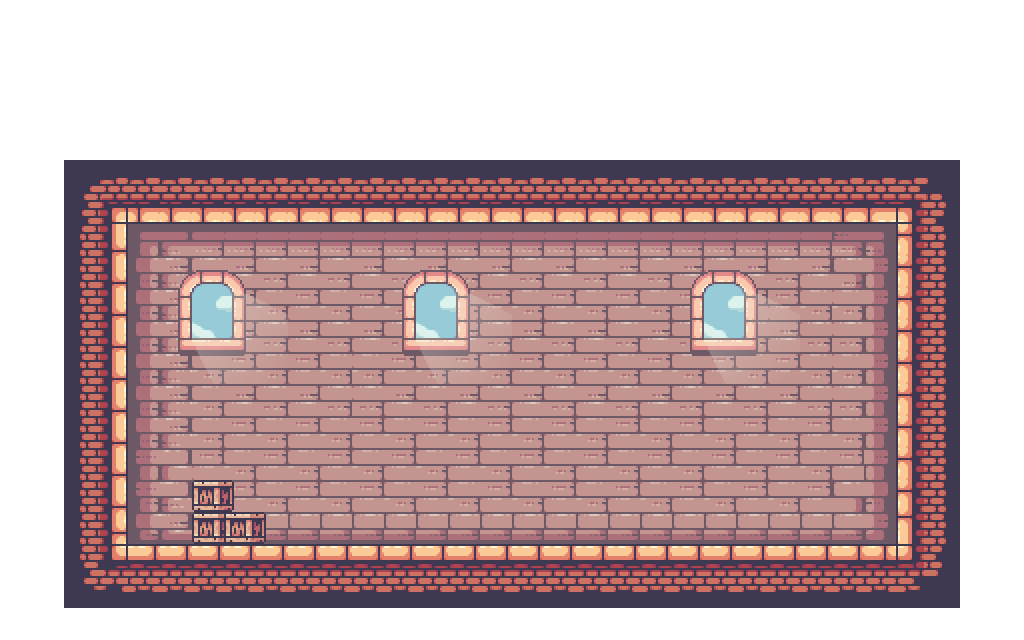
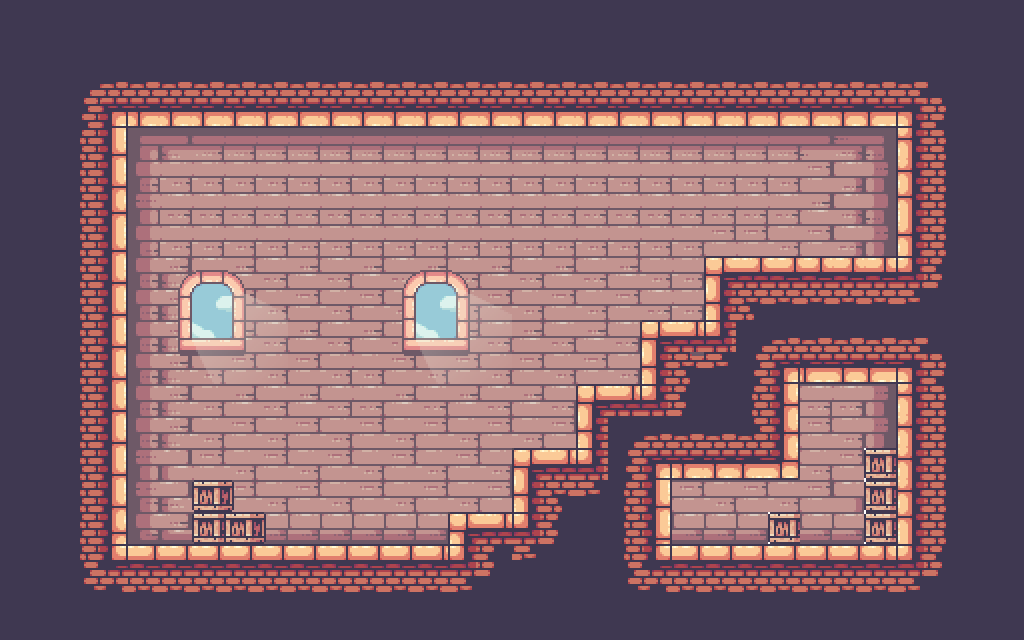
fixes

diff --git a/assets/Tiled/level1.js b/assets/Tiled/level1.js
@@ -13,26 +13,26 @@
  "infinite":false,
  "layers":[
         {
-         "data":[0, 0, 0, 0, 0, 0, 0, 0, 0, 0, 0, 0, 0, 0, 0, 0, 0, 0, 0, 0, 0, 0, 0, 0, 0, 0, 0, 0, 0, 0, 0, 0,
-            0, 0, 0, 0, 0, 0, 0, 0, 0, 0, 0, 0, 0, 0, 0, 0, 0, 0, 0, 0, 0, 0, 0, 0, 0, 0, 0, 0, 0, 0, 0, 0,
-            0, 0, 0, 0, 0, 0, 0, 0, 0, 0, 0, 0, 0, 0, 0, 0, 0, 0, 0, 0, 0, 0, 0, 0, 0, 0, 0, 0, 0, 0, 0, 0,
-            0, 0, 0, 0, 0, 0, 0, 0, 0, 0, 0, 0, 0, 0, 0, 0, 0, 0, 0, 0, 0, 0, 0, 0, 0, 0, 0, 0, 0, 0, 0, 0,
-            0, 0, 0, 0, 0, 0, 0, 0, 0, 0, 0, 0, 0, 0, 0, 0, 0, 0, 0, 0, 0, 0, 0, 0, 0, 0, 0, 0, 0, 0, 0, 0,
-            0, 0, 91, 92, 233, 233, 233, 233, 233, 233, 233, 233, 233, 233, 233, 233, 233, 233, 233, 233, 233, 233, 233, 233, 233, 233, 233, 234, 93, 94, 0, 0,
-            0, 0, 129, 130, 271, 271, 271, 271, 271, 271, 271, 271, 271, 271, 271, 271, 271, 271, 271, 271, 271, 271, 271, 271, 271, 271, 271, 272, 131, 132, 0, 0,
-            0, 0, 159, 160, 535, 536, 537, 537, 537, 537, 537, 537, 537, 537, 537, 537, 537, 537, 537, 537, 537, 537, 537, 537, 537, 537, 539, 540, 155, 156, 0, 0,
-            0, 0, 159, 160, 573, 574, 651, 652, 651, 652, 651, 652, 651, 652, 651, 652, 651, 652, 651, 652, 651, 652, 651, 652, 651, 652, 577, 578, 155, 156, 0, 0,
-            0, 0, 159, 160, 573, 574, 613, 614, 613, 614, 613, 614, 613, 614, 613, 614, 613, 614, 613, 614, 613, 614, 613, 614, 614, 613, 613, 578, 155, 156, 0, 0,
-            0, 0, 159, 160, 573, 574, 651, 652, 651, 652, 651, 652, 651, 652, 652, 651, 652, 651, 652, 651, 652, 651, 652, 651, 652, 651, 651, 578, 155, 156, 0, 0,
-            0, 0, 159, 160, 573, 574, 613, 614, 613, 614, 613, 613, 614, 613, 614, 613, 614, 613, 614, 613, 614, 613, 614, 613, 614, 613, 613, 578, 155, 156, 0, 0,
-            0, 0, 159, 160, 573, 574, 613, 652, 651, 652, 651, 651, 652, 651, 652, 651, 652, 651, 652, 651, 652, 651, 652, 651, 652, 651, 651, 578, 155, 156, 0, 0,
-            0, 0, 159, 160, 573, 574, 613, 614, 613, 614, 613, 614, 613, 614, 613, 614, 613, 614, 613, 614, 613, 614, 613, 614, 613, 614, 613, 578, 155, 156, 0, 0,
-            0, 0, 159, 160, 611, 612, 614, 613, 614, 613, 614, 613, 614, 613, 614, 613, 614, 613, 614, 613, 614, 613, 614, 613, 614, 613, 614, 578, 155, 156, 0, 0,
-            0, 0, 159, 160, 687, 688, 613, 614, 613, 614, 613, 614, 613, 614, 613, 614, 613, 614, 613, 614, 613, 614, 613, 614, 613, 614, 691, 692, 155, 156, 0, 0,
-            0, 0, 197, 198, 725, 726, 727, 728, 729, 729, 729, 729, 729, 729, 729, 729, 729, 729, 729, 729, 729, 729, 729, 729, 729, 729, 729, 730, 193, 194, 0, 0,
-            0, 0, 167, 168, 81, 81, 81, 81, 81, 81, 81, 81, 81, 81, 81, 81, 81, 81, 81, 81, 81, 81, 81, 81, 81, 81, 81, 82, 169, 170, 0, 0,
-            0, 0, 205, 206, 119, 119, 119, 119, 119, 119, 119, 119, 119, 119, 119, 119, 119, 119, 119, 119, 119, 119, 119, 119, 119, 119, 119, 120, 207, 208, 0, 0,
-            0, 0, 0, 0, 0, 0, 0, 0, 0, 0, 0, 0, 0, 0, 0, 0, 0, 0, 0, 0, 0, 0, 0, 0, 0, 0, 0, 0, 0, 0, 0, 0],
+         "data":[157, 158, 157, 158, 157, 158, 157, 158, 157, 158, 157, 158, 157, 158, 157, 158, 157, 158, 157, 158, 157, 158, 157, 158, 157, 158, 157, 158, 157, 158, 157, 158,
+            195, 196, 195, 196, 195, 196, 195, 196, 195, 196, 195, 196, 195, 196, 195, 196, 195, 196, 195, 196, 195, 196, 195, 196, 195, 196, 195, 196, 195, 196, 195, 196,
+            157, 158, 91, 92, 233, 233, 233, 233, 233, 233, 233, 233, 233, 233, 233, 233, 233, 233, 233, 233, 233, 233, 233, 233, 233, 233, 233, 234, 93, 94, 157, 158,
+            195, 196, 129, 130, 271, 271, 271, 271, 271, 271, 271, 271, 271, 271, 271, 271, 271, 271, 271, 271, 271, 271, 271, 271, 271, 271, 271, 272, 131, 132, 195, 196,
+            157, 158, 159, 160, 535, 536, 537, 537, 537, 537, 537, 537, 537, 537, 537, 537, 537, 537, 537, 537, 537, 537, 537, 537, 537, 538, 539, 540, 155, 156, 157, 158,
+            195, 196, 159, 160, 573, 613, 613, 613, 613, 613, 613, 613, 613, 613, 613, 613, 613, 613, 613, 613, 613, 613, 613, 613, 613, 614, 577, 578, 155, 156, 195, 196,
+            157, 158, 197, 198, 611, 651, 651, 651, 651, 651, 651, 651, 651, 651, 651, 651, 651, 651, 651, 651, 651, 651, 651, 651, 651, 652, 615, 616, 193, 194, 157, 158,
+            195, 196, 159, 160, 649, 613, 613, 613, 613, 613, 613, 613, 613, 613, 613, 613, 613, 613, 613, 613, 613, 613, 614, 614, 613, 614, 653, 654, 155, 156, 195, 196,
+            157, 158, 159, 160, 573, 574, 651, 652, 651, 652, 651, 652, 651, 652, 651, 652, 651, 652, 651, 652, 613, 613, 79, 80, 81, 82, 82, 82, 169, 170, 157, 158,
+            195, 196, 159, 160, 573, 574, 613, 614, 613, 614, 613, 614, 613, 614, 613, 614, 613, 614, 613, 614, 651, 613, 117, 118, 119, 120, 120, 120, 207, 208, 195, 196,
+            157, 158, 159, 160, 573, 574, 651, 652, 651, 652, 651, 652, 651, 652, 652, 651, 652, 651, 652, 651, 79, 80, 169, 91, 92, 234, 233, 234, 93, 94, 157, 158,
+            195, 196, 159, 160, 573, 574, 613, 614, 613, 614, 613, 613, 614, 613, 614, 613, 614, 613, 614, 613, 117, 118, 207, 129, 130, 272, 271, 272, 131, 132, 195, 196,
+            157, 158, 159, 160, 573, 574, 613, 652, 651, 652, 651, 651, 652, 651, 652, 651, 652, 651, 79, 80, 169, 170, 157, 197, 198, 651, 651, 578, 155, 156, 157, 158,
+            195, 196, 159, 160, 573, 574, 613, 614, 613, 614, 613, 614, 613, 614, 613, 614, 613, 614, 117, 91, 92, 233, 233, 235, 236, 614, 613, 578, 155, 156, 195, 196,
+            157, 158, 159, 160, 611, 612, 614, 613, 614, 613, 614, 613, 614, 613, 614, 613, 79, 80, 169, 129, 130, 271, 271, 273, 274, 613, 614, 1157, 155, 156, 157, 158,
+            195, 196, 159, 160, 687, 688, 613, 614, 613, 614, 613, 614, 613, 614, 613, 614, 117, 118, 207, 159, 160, 614, 613, 614, 613, 614, 691, 1157, 155, 156, 195, 196,
+            157, 158, 197, 198, 725, 726, 727, 728, 729, 729, 729, 729, 729, 729, 79, 80, 169, 170, 157, 159, 160, 729, 729, 729, 1157, 729, 729, 1157, 193, 194, 157, 158,
+            195, 196, 167, 168, 81, 81, 81, 81, 81, 81, 81, 81, 81, 81, 169, 170, 207, 208, 157, 167, 168, 81, 81, 81, 81, 81, 81, 82, 169, 170, 195, 196,
+            157, 158, 205, 206, 119, 119, 119, 119, 119, 119, 119, 119, 119, 119, 207, 208, 157, 157, 157, 205, 206, 119, 119, 119, 119, 119, 119, 120, 207, 208, 157, 158,
+            195, 196, 195, 196, 195, 196, 195, 196, 195, 196, 195, 196, 195, 196, 195, 196, 195, 196, 195, 196, 195, 196, 195, 196, 195, 196, 195, 196, 195, 196, 195, 196],
          "height":20,
          "id":1,
          "name":"Terrain",
@@ -52,10 +52,10 @@
             0, 0, 0, 0, 0, 0, 0, 0, 0, 0, 0, 0, 0, 0, 0, 0, 0, 0, 0, 0, 0, 0, 0, 0, 0, 0, 0, 0, 0, 0, 0, 0,
             0, 0, 0, 0, 0, 0, 0, 0, 0, 0, 0, 0, 0, 0, 0, 0, 0, 0, 0, 0, 0, 0, 0, 0, 0, 0, 0, 0, 0, 0, 0, 0,
             0, 0, 0, 0, 0, 0, 0, 0, 0, 0, 0, 0, 0, 0, 0, 0, 0, 0, 0, 0, 0, 0, 0, 0, 0, 0, 0, 0, 0, 0, 0, 0,
-            0, 0, 0, 0, 0, 1077, 1078, 1079, 1080, 0, 0, 0, 1077, 1078, 1079, 1080, 0, 0, 0, 0, 0, 1077, 1078, 1079, 1080, 0, 0, 0, 0, 0, 0, 0,
-            0, 0, 0, 0, 0, 1091, 1092, 1093, 1094, 0, 0, 0, 1091, 1092, 1093, 1094, 0, 0, 0, 0, 0, 1091, 1092, 1093, 1094, 0, 0, 0, 0, 0, 0, 0,
-            0, 0, 0, 0, 0, 1105, 1106, 1107, 1108, 0, 0, 0, 1105, 1106, 1107, 1108, 0, 0, 0, 0, 0, 1105, 1106, 1107, 1108, 0, 0, 0, 0, 0, 0, 0,
-            0, 0, 0, 0, 0, 1119, 1120, 1121, 1122, 0, 0, 0, 1119, 1120, 1121, 1122, 0, 0, 0, 0, 0, 1119, 1120, 1121, 1122, 0, 0, 0, 0, 0, 0, 0,
+            0, 0, 0, 0, 0, 1077, 1078, 1079, 1080, 0, 0, 0, 1077, 1078, 1079, 1080, 0, 0, 0, 0, 0, 0, 0, 0, 1080, 0, 0, 0, 0, 0, 0, 0,
+            0, 0, 0, 0, 0, 1091, 1092, 1093, 1094, 0, 0, 0, 1091, 1092, 1093, 1094, 0, 0, 0, 0, 0, 0, 0, 0, 0, 0, 0, 0, 0, 0, 0, 0,
+            0, 0, 0, 0, 0, 1105, 1106, 1107, 1108, 0, 0, 0, 1105, 1106, 1107, 1108, 0, 0, 0, 0, 0, 0, 0, 0, 0, 0, 0, 0, 0, 0, 0, 0,
+            0, 0, 0, 0, 0, 1119, 1120, 1121, 1122, 0, 0, 0, 1119, 1120, 1121, 1122, 0, 0, 0, 0, 0, 1119, 0, 0, 0, 0, 0, 0, 0, 0, 0, 0,
             0, 0, 0, 0, 0, 0, 0, 0, 0, 0, 0, 0, 0, 0, 0, 0, 0, 0, 0, 0, 0, 0, 0, 0, 0, 0, 0, 0, 0, 0, 0, 0,
             0, 0, 0, 0, 0, 0, 0, 0, 0, 0, 0, 0, 0, 0, 0, 0, 0, 0, 0, 0, 0, 0, 0, 0, 0, 0, 0, 0, 0, 0, 0, 0,
             0, 0, 0, 0, 0, 0, 0, 0, 0, 0, 0, 0, 0, 0, 0, 0, 0, 0, 0, 0, 0, 0, 0, 0, 0, 0, 0, 0, 0, 0, 0, 0,
@@ -109,21 +109,21 @@
          "data":[0, 0, 0, 0, 0, 0, 0, 0, 0, 0, 0, 0, 0, 0, 0, 0, 0, 0, 0, 0, 0, 0, 0, 0, 0, 0, 0, 0, 0, 0, 0, 0,
             0, 0, 0, 0, 0, 0, 0, 0, 0, 0, 0, 0, 0, 0, 0, 0, 0, 0, 0, 0, 0, 0, 0, 0, 0, 0, 0, 0, 0, 0, 0, 0,
             0, 0, 0, 0, 0, 0, 0, 0, 0, 0, 0, 0, 0, 0, 0, 0, 0, 0, 0, 0, 0, 0, 0, 0, 0, 0, 0, 0, 0, 0, 0, 0,
-            0, 0, 0, 0, 0, 0, 0, 0, 0, 0, 0, 0, 0, 0, 0, 0, 0, 0, 0, 0, 0, 0, 0, 0, 0, 0, 0, 0, 0, 0, 0, 0,
-            0, 0, 0, 0, 0, 0, 0, 0, 0, 0, 0, 0, 0, 0, 0, 0, 0, 0, 0, 0, 0, 0, 0, 0, 0, 0, 0, 0, 0, 0, 0, 0,
-            0, 0, 0, 0, 0, 0, 0, 0, 0, 0, 0, 0, 0, 0, 0, 0, 0, 0, 0, 0, 0, 0, 0, 0, 0, 0, 0, 0, 0, 0, 0, 0,
             0, 0, 0, 1159, 1159, 1159, 1159, 1159, 1159, 1159, 1159, 1159, 1159, 1159, 1159, 1159, 1159, 1159, 1159, 1159, 1159, 1159, 1159, 1159, 1159, 1159, 1159, 1159, 1159, 0, 0, 0,
             0, 0, 0, 1159, 0, 0, 0, 0, 0, 0, 0, 0, 0, 0, 0, 0, 0, 0, 0, 0, 0, 0, 0, 0, 0, 0, 0, 0, 1159, 0, 0, 0,
             0, 0, 0, 1159, 0, 0, 0, 0, 0, 0, 0, 0, 0, 0, 0, 0, 0, 0, 0, 0, 0, 0, 0, 0, 0, 0, 0, 0, 1159, 0, 0, 0,
             0, 0, 0, 1159, 0, 0, 0, 0, 0, 0, 0, 0, 0, 0, 0, 0, 0, 0, 0, 0, 0, 0, 0, 0, 0, 0, 0, 0, 1159, 0, 0, 0,
             0, 0, 0, 1159, 0, 0, 0, 0, 0, 0, 0, 0, 0, 0, 0, 0, 0, 0, 0, 0, 0, 0, 0, 0, 0, 0, 0, 0, 1159, 0, 0, 0,
-            0, 0, 0, 1159, 0, 0, 0, 0, 0, 0, 0, 0, 0, 0, 0, 0, 0, 0, 0, 0, 0, 0, 0, 0, 0, 0, 0, 0, 1159, 0, 0, 0,
-            0, 0, 0, 1159, 0, 0, 0, 0, 0, 0, 0, 0, 0, 0, 0, 0, 0, 0, 0, 0, 0, 0, 0, 0, 0, 0, 0, 0, 1159, 0, 0, 0,
-            0, 0, 0, 1159, 0, 0, 0, 0, 0, 0, 0, 0, 0, 0, 0, 0, 0, 0, 0, 0, 0, 0, 0, 0, 0, 0, 0, 0, 1159, 0, 0, 0,
-            0, 0, 0, 1159, 0, 0, 0, 0, 0, 0, 0, 0, 0, 0, 0, 0, 0, 0, 0, 0, 0, 0, 0, 0, 0, 0, 0, 0, 1159, 0, 0, 0,
-            0, 0, 0, 1159, 0, 0, 1159, 0, 0, 0, 0, 0, 0, 0, 0, 0, 0, 0, 0, 0, 0, 0, 0, 0, 0, 0, 0, 0, 1159, 0, 0, 0,
-            0, 0, 0, 1159, 0, 0, 1159, 1159, 0, 0, 0, 0, 0, 0, 0, 0, 0, 0, 0, 0, 0, 0, 0, 0, 0, 0, 0, 0, 1159, 0, 0, 0,
-            0, 0, 0, 1159, 1159, 1159, 1159, 1159, 1159, 1159, 1159, 1159, 1159, 1159, 1159, 1159, 1159, 1159, 1159, 1159, 1159, 1159, 1159, 1159, 1159, 1159, 1159, 1159, 1159, 0, 0, 0,
+            0, 0, 0, 1159, 0, 0, 0, 0, 0, 0, 0, 0, 0, 0, 0, 0, 0, 0, 0, 0, 0, 0, 1159, 1159, 1159, 1159, 1159, 1159, 1159, 0, 0, 0,
+            0, 0, 0, 1159, 0, 0, 0, 0, 0, 0, 0, 0, 0, 0, 0, 0, 0, 0, 0, 0, 0, 0, 1159, 0, 0, 0, 0, 0, 0, 0, 0, 0,
+            0, 0, 0, 1159, 0, 0, 0, 0, 0, 0, 0, 0, 0, 0, 0, 0, 0, 0, 0, 0, 1159, 1159, 1159, 0, 0, 0, 0, 0, 0, 0, 0, 0,
+            0, 0, 0, 1159, 0, 0, 0, 0, 0, 0, 0, 0, 0, 0, 0, 0, 0, 0, 0, 0, 1159, 0, 0, 0, 0, 0, 0, 0, 0, 0, 0, 0,
+            0, 0, 0, 1159, 0, 0, 0, 0, 0, 0, 0, 0, 0, 0, 0, 0, 0, 0, 1159, 1159, 1159, 0, 0, 0, 0, 0, 0, 0, 0, 0, 0, 0,
+            0, 0, 0, 1159, 0, 0, 0, 0, 0, 0, 0, 0, 0, 0, 0, 0, 0, 0, 1159, 0, 0, 0, 0, 0, 0, 0, 0, 0, 0, 0, 0, 0,
+            0, 0, 0, 1159, 0, 0, 0, 0, 0, 0, 0, 0, 0, 0, 0, 0, 1159, 1159, 1159, 0, 0, 0, 0, 0, 0, 0, 0, 0, 0, 0, 0, 0,
+            0, 0, 0, 1159, 0, 0, 1159, 0, 0, 0, 0, 0, 0, 0, 0, 0, 1159, 0, 0, 0, 0, 0, 0, 0, 0, 0, 0, 0, 0, 0, 0, 0,
+            0, 0, 0, 1159, 0, 0, 1159, 1159, 0, 0, 0, 0, 0, 0, 1159, 1159, 1159, 0, 0, 0, 0, 0, 0, 0, 0, 0, 0, 0, 0, 0, 0, 0,
+            0, 0, 0, 1159, 1159, 1159, 1159, 1159, 1159, 1159, 1159, 1159, 1159, 1159, 1159, 0, 0, 0, 0, 0, 0, 0, 0, 0, 0, 0, 0, 0, 0, 0, 0, 0,
             0, 0, 0, 0, 0, 0, 0, 0, 0, 0, 0, 0, 0, 0, 0, 0, 0, 0, 0, 0, 0, 0, 0, 0, 0, 0, 0, 0, 0, 0, 0, 0,
             0, 0, 0, 0, 0, 0, 0, 0, 0, 0, 0, 0, 0, 0, 0, 0, 0, 0, 0, 0, 0, 0, 0, 0, 0, 0, 0, 0, 0, 0, 0, 0],
          "height":20,
@@ -131,7 +131,7 @@
          "name":"Collision",
          "opacity":0.5,
          "type":"tilelayer",
-         "visible":false,
+         "visible":true,
          "width":32,
          "x":0,
          "y":0

diff --git a/maps.js b/maps.js
@@ -3,21 +3,21 @@ const maps = {
     0, 0, 0, 0, 0, 0, 0, 0, 0, 0, 0, 0, 0, 0, 0, 0, 0, 0, 0, 0, 0, 0, 0, 0, 0, 0, 0, 0, 0, 0, 0, 0,
     0, 0, 0, 0, 0, 0, 0, 0, 0, 0, 0, 0, 0, 0, 0, 0, 0, 0, 0, 0, 0, 0, 0, 0, 0, 0, 0, 0, 0, 0, 0, 0,
     0, 0, 0, 0, 0, 0, 0, 0, 0, 0, 0, 0, 0, 0, 0, 0, 0, 0, 0, 0, 0, 0, 0, 0, 0, 0, 0, 0, 0, 0, 0, 0,
-    0, 0, 0, 0, 0, 0, 0, 0, 0, 0, 0, 0, 0, 0, 0, 0, 0, 0, 0, 0, 0, 0, 0, 0, 0, 0, 0, 0, 0, 0, 0, 0,
-    0, 0, 0, 0, 0, 0, 0, 0, 0, 0, 0, 0, 0, 0, 0, 0, 0, 0, 0, 0, 0, 0, 0, 0, 0, 0, 0, 0, 0, 0, 0, 0,
-    0, 0, 0, 0, 0, 0, 0, 0, 0, 0, 0, 0, 0, 0, 0, 0, 0, 0, 0, 0, 0, 0, 0, 0, 0, 0, 0, 0, 0, 0, 0, 0,
     0, 0, 0, 1159, 1159, 1159, 1159, 1159, 1159, 1159, 1159, 1159, 1159, 1159, 1159, 1159, 1159, 1159, 1159, 1159, 1159, 1159, 1159, 1159, 1159, 1159, 1159, 1159, 1159, 0, 0, 0,
     0, 0, 0, 1159, 0, 0, 0, 0, 0, 0, 0, 0, 0, 0, 0, 0, 0, 0, 0, 0, 0, 0, 0, 0, 0, 0, 0, 0, 1159, 0, 0, 0,
     0, 0, 0, 1159, 0, 0, 0, 0, 0, 0, 0, 0, 0, 0, 0, 0, 0, 0, 0, 0, 0, 0, 0, 0, 0, 0, 0, 0, 1159, 0, 0, 0,
     0, 0, 0, 1159, 0, 0, 0, 0, 0, 0, 0, 0, 0, 0, 0, 0, 0, 0, 0, 0, 0, 0, 0, 0, 0, 0, 0, 0, 1159, 0, 0, 0,
     0, 0, 0, 1159, 0, 0, 0, 0, 0, 0, 0, 0, 0, 0, 0, 0, 0, 0, 0, 0, 0, 0, 0, 0, 0, 0, 0, 0, 1159, 0, 0, 0,
-    0, 0, 0, 1159, 0, 0, 0, 0, 0, 0, 0, 0, 0, 0, 0, 0, 0, 0, 0, 0, 0, 0, 0, 0, 0, 0, 0, 0, 1159, 0, 0, 0,
-    0, 0, 0, 1159, 0, 0, 0, 0, 0, 0, 0, 0, 0, 0, 0, 0, 0, 0, 0, 0, 0, 0, 0, 0, 0, 0, 0, 0, 1159, 0, 0, 0,
-    0, 0, 0, 1159, 0, 0, 0, 0, 0, 0, 0, 0, 0, 0, 0, 0, 0, 0, 0, 0, 0, 0, 0, 0, 0, 0, 0, 0, 1159, 0, 0, 0,
-    0, 0, 0, 1159, 0, 0, 0, 0, 0, 0, 0, 0, 0, 0, 0, 0, 0, 0, 0, 0, 0, 0, 0, 0, 0, 0, 0, 0, 1159, 0, 0, 0,
-    0, 0, 0, 1159, 0, 0, 1159, 0, 0, 0, 0, 0, 0, 0, 0, 0, 0, 0, 0, 0, 0, 0, 0, 0, 0, 0, 0, 0, 1159, 0, 0, 0,
-    0, 0, 0, 1159, 0, 0, 1159, 1159, 0, 0, 0, 0, 0, 0, 0, 0, 0, 0, 0, 0, 0, 0, 0, 0, 0, 0, 0, 0, 1159, 0, 0, 0,
-    0, 0, 0, 1159, 1159, 1159, 1159, 1159, 1159, 1159, 1159, 1159, 1159, 1159, 1159, 1159, 1159, 1159, 1159, 1159, 1159, 1159, 1159, 1159, 1159, 1159, 1159, 1159, 1159, 0, 0, 0,
+    0, 0, 0, 1159, 0, 0, 0, 0, 0, 0, 0, 0, 0, 0, 0, 0, 0, 0, 0, 0, 0, 0, 1159, 1159, 1159, 1159, 1159, 1159, 1159, 0, 0, 0,
+    0, 0, 0, 1159, 0, 0, 0, 0, 0, 0, 0, 0, 0, 0, 0, 0, 0, 0, 0, 0, 0, 0, 1159, 0, 0, 0, 0, 0, 0, 0, 0, 0,
+    0, 0, 0, 1159, 0, 0, 0, 0, 0, 0, 0, 0, 0, 0, 0, 0, 0, 0, 0, 0, 1159, 1159, 1159, 0, 0, 0, 0, 0, 0, 0, 0, 0,
+    0, 0, 0, 1159, 0, 0, 0, 0, 0, 0, 0, 0, 0, 0, 0, 0, 0, 0, 0, 0, 1159, 0, 0, 0, 0, 0, 0, 0, 0, 0, 0, 0,
+    0, 0, 0, 1159, 0, 0, 0, 0, 0, 0, 0, 0, 0, 0, 0, 0, 0, 0, 1159, 1159, 1159, 0, 0, 0, 0, 0, 0, 0, 0, 0, 0, 0,
+    0, 0, 0, 1159, 0, 0, 0, 0, 0, 0, 0, 0, 0, 0, 0, 0, 0, 0, 1159, 0, 0, 0, 0, 0, 0, 0, 0, 0, 0, 0, 0, 0,
+    0, 0, 0, 1159, 0, 0, 0, 0, 0, 0, 0, 0, 0, 0, 0, 0, 1159, 1159, 1159, 0, 0, 0, 0, 0, 0, 0, 0, 0, 0, 0, 0, 0,
+    0, 0, 0, 1159, 0, 0, 1159, 0, 0, 0, 0, 0, 0, 0, 0, 0, 1159, 0, 0, 0, 0, 0, 0, 0, 0, 0, 0, 0, 0, 0, 0, 0,
+    0, 0, 0, 1159, 0, 0, 1159, 1159, 0, 0, 0, 0, 0, 0, 1159, 1159, 1159, 0, 0, 0, 0, 0, 0, 0, 0, 0, 0, 0, 0, 0, 0, 0,
+    0, 0, 0, 1159, 1159, 1159, 1159, 1159, 1159, 1159, 1159, 1159, 1159, 1159, 1159, 0, 0, 0, 0, 0, 0, 0, 0, 0, 0, 0, 0, 0, 0, 0, 0, 0,
     0, 0, 0, 0, 0, 0, 0, 0, 0, 0, 0, 0, 0, 0, 0, 0, 0, 0, 0, 0, 0, 0, 0, 0, 0, 0, 0, 0, 0, 0, 0, 0,
     0, 0, 0, 0, 0, 0, 0, 0, 0, 0, 0, 0, 0, 0, 0, 0, 0, 0, 0, 0, 0, 0, 0, 0, 0, 0, 0, 0, 0, 0, 0, 0
   ]}

diff --git a/script.js b/script.js
@@ -133,7 +133,7 @@ class Player extends Sprite {
     }
 
     this.game = game
-    this.x = 200
+    this.x = 150
     this.y = 200
     this.width = 156
     this.height = 116
@@ -353,7 +353,7 @@ class Player extends Sprite {
     this.animate(this.state)
   }
   jump() {
-    if(this.state != this.States.jump) this.speedY = -10      
+    if(this.isStanding) this.speedY = -10      
     this.state = this.States.jump      
     this.animate(this.state)
   }
